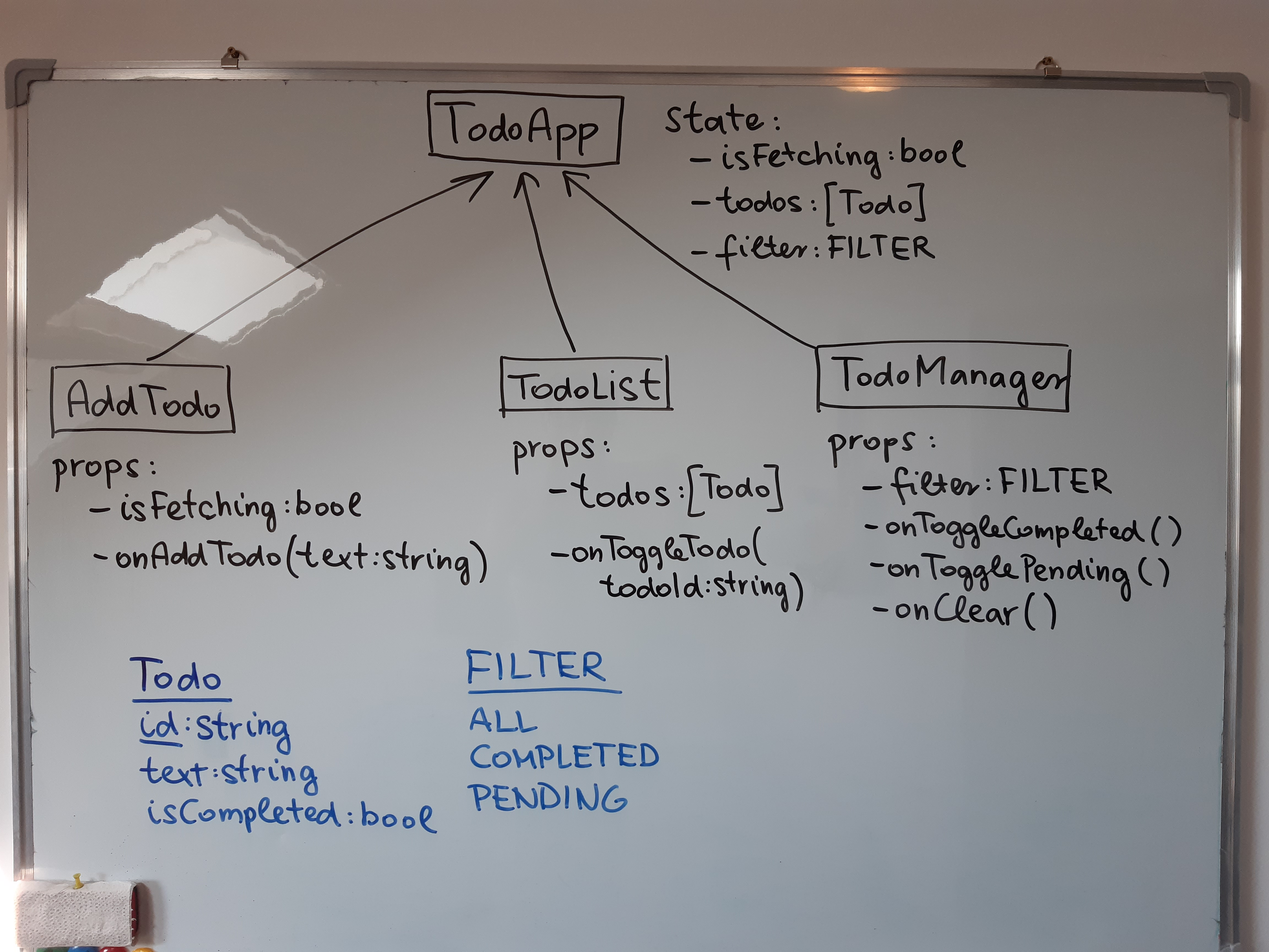
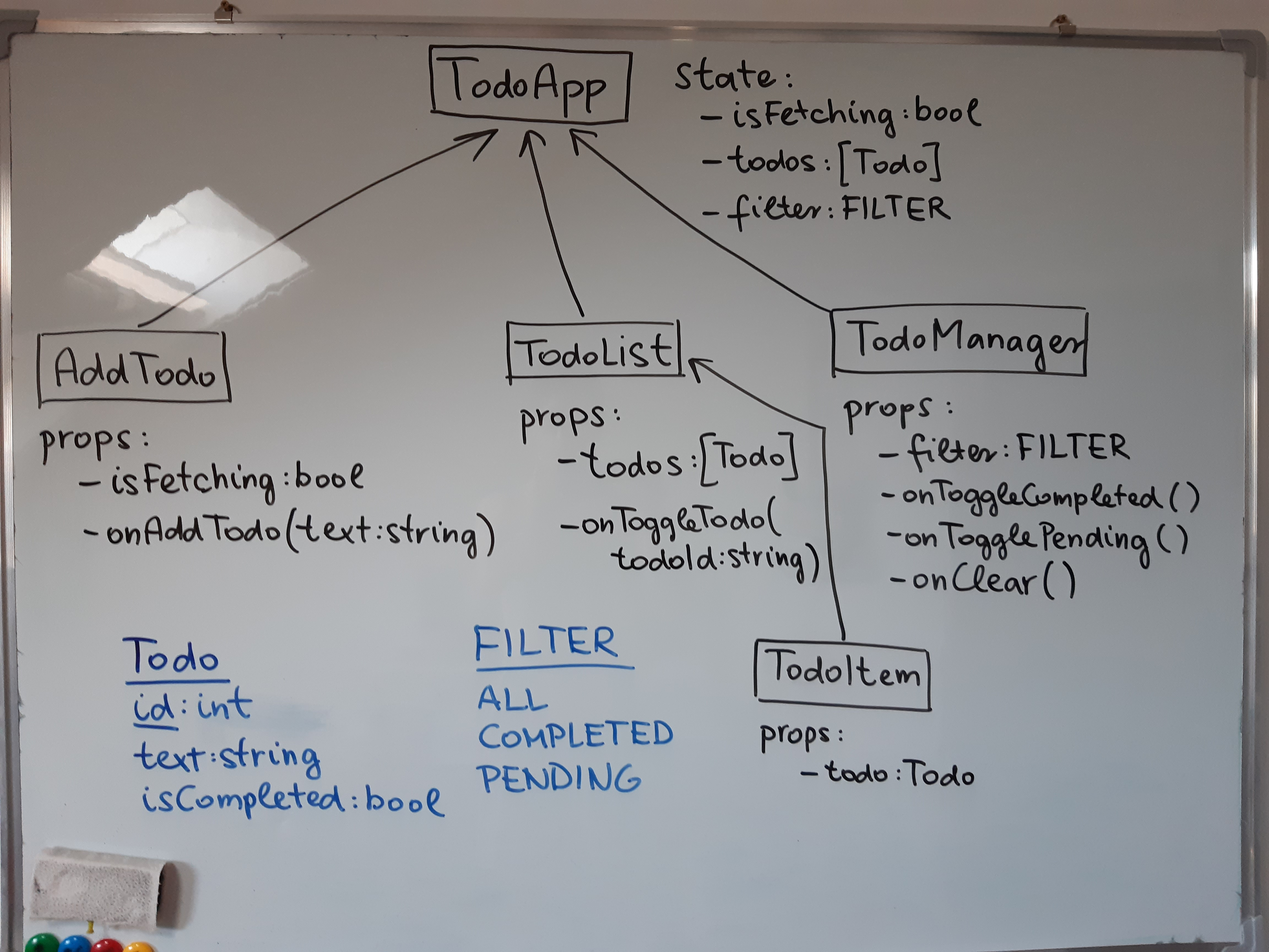
Can add Todo

diff --git a/src/index.js b/src/index.js
@@ -4,15 +4,20 @@ import {createStore} from 'redux'
 import {Provider} from 'react-redux'
 import TodoApp from './components/TodoApp'
 
+function nextTodoId(todos) {
+  const maxId = todos.reduce((maxId, todo) => Math.max(todo.id, maxId), -1)
+  return maxId + 1
+}
+
 const initialState = {
   todos: [
     {
-      id: '1',
+      id: 1,
       text: 'Take sunbath',
       isCompleted: false,
     },
     {
-      id: '2',
+      id: 2,
       text: 'Go for a walk',
       isCompleted: true,
     },
@@ -22,7 +27,17 @@ const initialState = {
 function reducer(state = initialState, action) {
   switch (action.type) {
     case "todos/added":
-      return state
+      return {
+        ...state,
+        todos: [
+          ...state.todos,
+          {
+            id: nextTodoId(state.todos),
+            text: action.payload,
+            isCompleted: false,
+          },
+        ],
+      }
     default:
       return state
   }

diff --git a/src/components/TodoApp.js b/src/components/TodoApp.js
@@ -6,7 +6,9 @@ import TodoManager from './TodoManager'
 function TodoApp({todos, addTodo, toggleTodo}) {
     return (
         <div>
-            <AddTodo />
+            <AddTodo
+                onAddTodo={addTodo}
+            />
             <TodoList
                 todos={todos}
             />
@@ -23,8 +25,9 @@ function mapStateToProps(state, ownProps) {
 
 function mapDispatchToProps(dispatch) {
     return {
-        addTodo: () => dispatch({
+        addTodo: (text) => dispatch({
             type: 'todos/added',
+            payload: text,
         }),
         toggleTodo: () => dispatch({
             type: 'todos/toggled',

diff --git a/src/components/AddTodo.js b/src/components/AddTodo.js
@@ -1,6 +1,24 @@
-function AddTodo() {
+import {useState} from 'react'
+
+function AddTodo({onAddTodo}) {
+    const [todoText, setTodoText] = useState('')
+
+    const handleAddTodo = () => {
+        onAddTodo(todoText)
+        setTodoText('')
+    }
+
     return (
-        <div>add todo...</div>
+        <div>
+            <input
+                value={todoText}
+                onChange={e => setTodoText(e.target.value)}
+                type="text"
+            />
+            <button
+                onClick={handleAddTodo}
+            >+</button>
+        </div>
     )
 }
 
